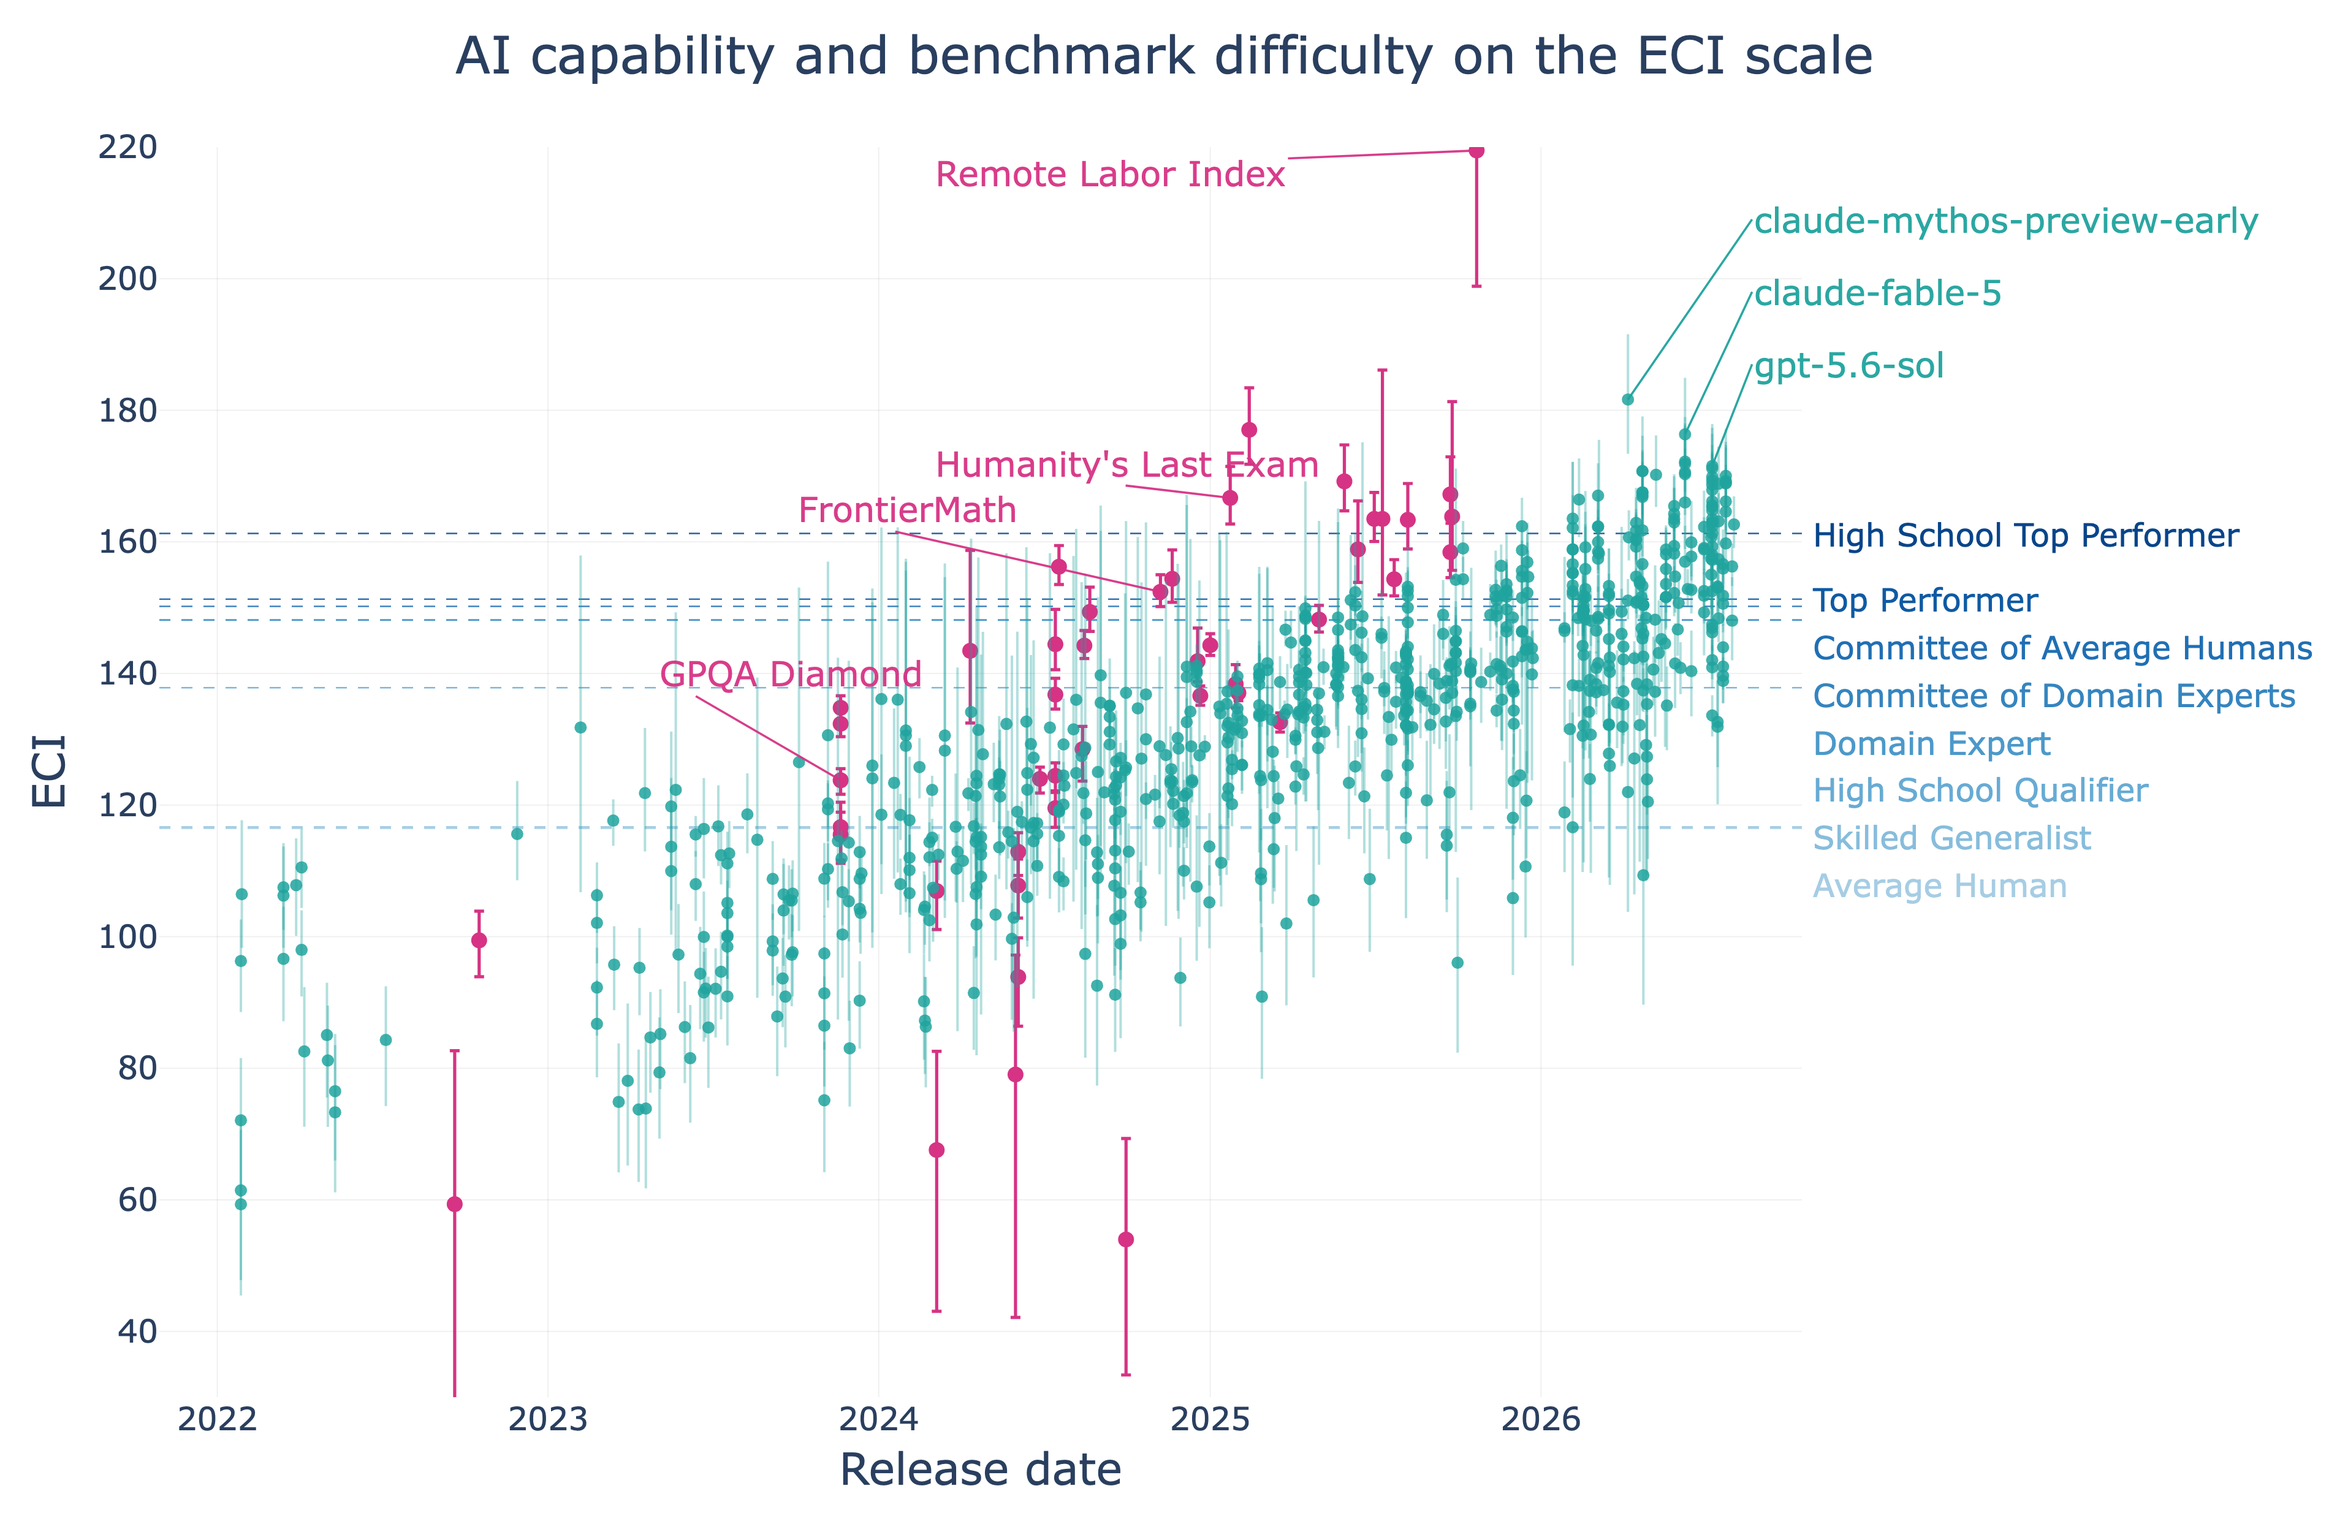
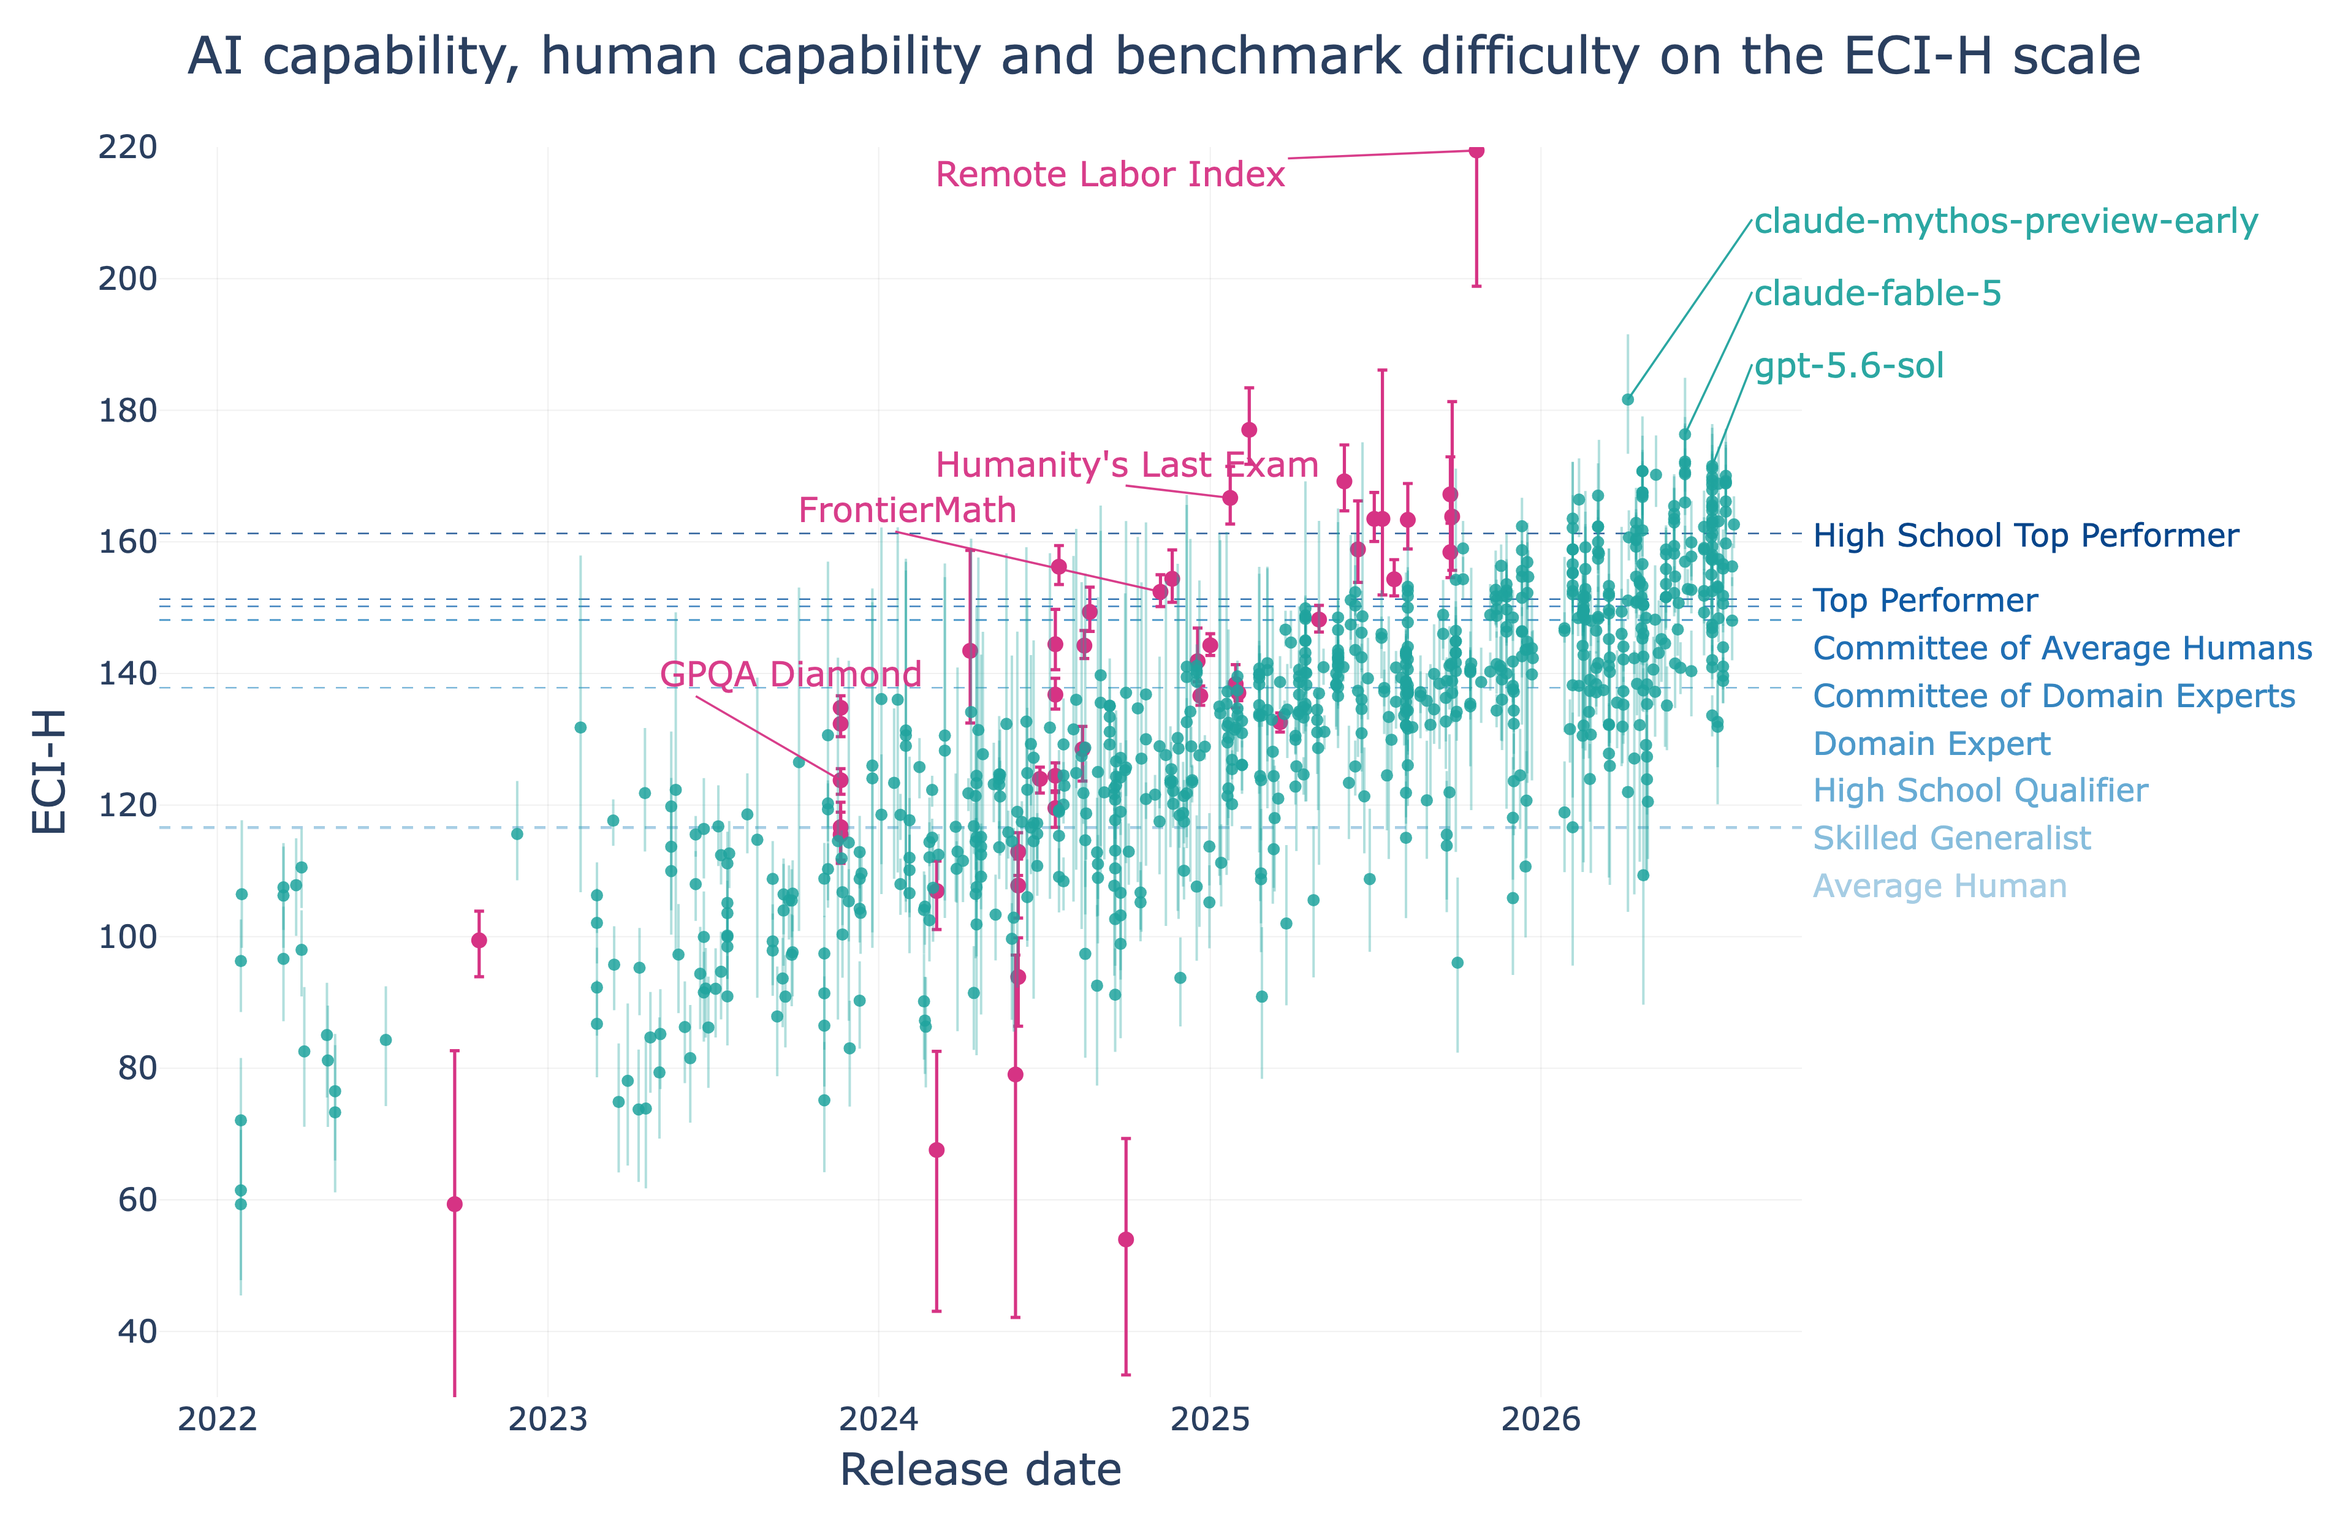
Name the human-anchored index ECI-H, to keep it distinct from Epoch's ECI
Display strings, figure titles/axes and the docs adopt ECI-H (defined once
in the README); code identifiers and CSV columns keep the short ECI names,
and Epoch's own index keeps its name. The 1D timeline title also gains
'human capability'.

Changed region(s): [[0.0932, 0.0, 0.9316, 0.0624], [0.0, 0.468, 0.0311, 0.5616]]

diff --git a/2_fit.py b/2_fit.py
@@ -3,8 +3,8 @@
 Two modes:
 
   python 2_fit.py --preset canonical
-      The headline ECI pipeline: K=1, "pt1" loading prior, curated
-      benchmark exclusions, humans as test-takers. Produces the anchored ECI
+      The headline ECI-H pipeline: K=1, "pt1" loading prior, curated
+      benchmark exclusions, humans as test-takers. Produces the anchored ECI-H
       scale, SOTA table, forests, timeline, PPC/GoF and figures under
       results/canonical/ and plots/canonical/.
 
@@ -244,7 +244,7 @@ def run_canonical(args) -> None:
 
     if args.raw_c:
         config.RAW_C_MODE = True
-        print("── --raw-c mode: ECI = C (no affine anchor rescaling) ───────────")
+        print("── --raw-c mode: ECI-H = C (no affine anchor rescaling) ───────────")
     if args.include_all_benchmarks:
         print("── --include-all-benchmarks: curated exclusions NOT applied ─────")
 
@@ -337,8 +337,8 @@ def run_canonical(args) -> None:
     print(f"   min ess   = {float(np.nanmin(summary[['ess_bulk', 'ess_tail']].values)):.0f}")
     print(f"   divergences = {n_div}")
 
-    # ── SOTA + ECI ──────────────────────────────────────────────────────────
-    print("\n── SOTA + ECI ───────────────────────────────────────────────────")
+    # ── SOTA + ECI-H ──────────────────────────────────────────────────────────
+    print("\n── SOTA + ECI-H ───────────────────────────────────────────────────")
     if args.eci_data_only:
         raw_df = (pd.read_csv(DATA_DIR / "raw" / "eci_data.csv")
                     .rename(columns={"model": "model_version"}))
@@ -390,8 +390,8 @@ def run_canonical(args) -> None:
         (config.ANCHOR_HIGH[1], f"{config.ANCHOR_HIGH[0]} = {config.ANCHOR_HIGH[1]:.0f}"),
     ]
     save_fig(sota_forest_fig(sota, x_col="ECI",
-                             title="SOTA ECI (anchored: Claude 3.5 Sonnet = 130, GPT-5 = 150)",
-                             xaxis_title="ECI (affine-anchored)",
+                             title="SOTA ECI-H (anchored: Claude 3.5 Sonnet = 130, GPT-5 = 150)",
+                             xaxis_title="ECI-H (affine-anchored)",
                              anchors=anchors),
              "sota_eci", plots_dir)
     save_fig(sota_forest_fig(sota, x_col="C",
@@ -695,7 +695,7 @@ def run_exploration(args, parser) -> None:
 def main():
     parser = argparse.ArgumentParser(
         description="Fit the compensatory Beta-MIRT: --preset canonical for the "
-                    "headline ECI pipeline (K=1), or the K-axis exploration flags.")
+                    "headline ECI-H pipeline (K=1), or the K-axis exploration flags.")
     parser.add_argument("--preset", choices=["canonical"],
                         help="'canonical': K=1, pt1 prior, curated exclusions, "
                              "humans in, full ECI deliverables → results/canonical/")

diff --git a/3_diagnostics/1_country_frontier.py b/3_diagnostics/1_country_frontier.py
@@ -236,7 +236,7 @@ def build_figure(theta0, mini, transform, model_dates, country_map, records, for
         xaxis=dict(title="Release date", type="date",
                   range=[pd.to_datetime(model_dates.min()).strftime("%Y-%m-%d"),
                          pd.Timestamp(horizon).strftime("%Y-%m-%d")]),
-        yaxis=dict(title="ECI (anchored)", range=[ylo - pad, yhi + pad]),
+        yaxis=dict(title="ECI-H (anchored)", range=[ylo - pad, yhi + pad]),
         legend=dict(orientation="v", yanchor="top", y=0.99, xanchor="left", x=1.01),
         margin=dict(l=70, r=220, t=70, b=55), height=560, width=1050)
     return fig
@@ -398,7 +398,7 @@ def main():
     fit_label = f"records since {pd.Timestamp(args.fit_start):%b %Y}"
     fig = build_figure(theta0, mini, transform, model_dates, country_map,
                        records, forecasts, args.horizon,
-                       title=f"US vs China frontier (ECI) — {scope_label}",
+                       title=f"US vs China frontier (ECI-H) — {scope_label}",
                        fit_label=fit_label,
                        y_range=(tuple(float(v) for v in args.y_range.split(","))
                                 if args.y_range else None))

diff --git a/blogpost/figures/make_timeline_plotly.py b/blogpost/figures/make_timeline_plotly.py
@@ -168,14 +168,14 @@ def main(results: Path, tag: str, out_dir: Path = HERE) -> None:
     # English text and post-scale type: the figure is shared flat, so it has to
     # be readable without zooming.
     fig.update_layout(
-        title=dict(text="AI capability and benchmark difficulty on the ECI scale",
+        title=dict(text="AI capability, human capability and benchmark difficulty on the ECI-H scale",
                    x=0.5, font=dict(size=FONT_TITLE)),
         xaxis=dict(title=dict(text="Release date", font=dict(size=FONT_AXIS)),
                    tickfont=dict(size=FONT_TICK),
                    dtick="M12", tickformat="%Y", tickangle=0,
                    range=[(x_left - pd.Timedelta(days=90)).strftime("%Y-%m-%d"),
                           (x_right + pd.Timedelta(days=75)).strftime("%Y-%m-%d")]),
-        yaxis=dict(title=dict(text="ECI", font=dict(size=FONT_AXIS)),
+        yaxis=dict(title=dict(text="ECI-H", font=dict(size=FONT_AXIS)),
                    tickfont=dict(size=FONT_TICK), range=[30, 220]),
         legend=dict(font=dict(size=15)),
         height=1250, width=1900, margin=dict(l=130, r=430, t=120, b=110),

diff --git a/blogpost/figures/make_timeline_difficulties.py b/blogpost/figures/make_timeline_difficulties.py
@@ -192,9 +192,9 @@ def main(results: Path, tag: str) -> None:
                                     lw=0.9, alpha=0.6, shrinkA=2, shrinkB=3))
         label_top -= 9
 
-    ax.set_ylabel("ECI")
+    ax.set_ylabel("ECI-H")
     ax.set_xlabel("Release date")
-    ax.set_title("ECI timeline with benchmark difficulties (1D)", fontsize=15)
+    ax.set_title("AI capability, human capability and benchmark difficulty (1D, ECI-H)", fontsize=15)
     ax.xaxis.set_major_locator(mdates.YearLocator())
     ax.xaxis.set_major_formatter(mdates.DateFormatter("%Y"))
     ax.legend(loc="lower right", frameon=False, fontsize=12)

diff --git a/deliverables/us_cn_frontier/make_tables.py b/deliverables/us_cn_frontier/make_tables.py
@@ -95,7 +95,7 @@ def main():
             "Δ open−all", "Δ closed−all"]
     fig = make_subplots(rows=2, cols=1,
                         specs=[[{"type": "table"}], [{"type": "table"}]],
-                        subplot_titles=("Frontier slopes (ECI/yr) — median [95% HDI]",
+                        subplot_titles=("Frontier slopes (ECI-H/yr) — median [95% HDI]",
                                         "Gap and lag — median [95% HDI]"),
                         row_heights=[0.55, 0.45], vertical_spacing=0.16)
     fig.add_trace(go.Table(header=dict(values=cols, **HDR),

diff --git a/multiaxis_eci/analysis/stats.py b/multiaxis_eci/analysis/stats.py
@@ -1,4 +1,5 @@
-"""ECI-scale statistics: capability draws, the affine anchor transform,
+"""ECI-H-scale statistics: capability draws, the affine anchor transform,
+(ECI-H is the human-anchored index; code and CSV columns keep the short ECI_* names.)
 and the SOTA / all-models / timeline / human / forest summary tables."""
 from __future__ import annotations
 

diff --git a/README.md b/README.md
@@ -4,7 +4,7 @@ Code and data behind the forthcoming post *Multi-Axis Bayesian Epoch Capabilitie
 
 The **Epoch Capabilities Index** ([ECI](https://epoch.ai/eci)) compresses many benchmark scores into one number per model, following the [Rosetta Stone paper](https://arxiv.org/abs/2512.00193). The previous post put human baseline tiers on that same scale, which exposed a problem. Humans score near-perfectly on abstract-reasoning benchmarks like ARC-AGI or VPCT and near chance on GPQA-type benchmarks, while many models show the opposite pattern. No single ordering produces both.
 
-This repository rebuilds the index in PyMC as a **K-axis compensatory 2PL Beta-MIRT**, an item-response model with a Beta likelihood. Every ability comes with its uncertainty, and the nine human tiers are fitted *inside* the model as test-takers rather than plotted on top of it. One framework serves both the K=4 capability decomposition and the K=1 anchored index. Four axes come out of the fit, named after the benchmarks whose loadings are most collinear with them:
+This repository rebuilds the index in PyMC as a **K-axis compensatory 2PL Beta-MIRT**, an item-response model with a Beta likelihood. Every ability comes with its uncertainty, and the nine human tiers are fitted *inside* the model as test-takers rather than plotted on top of it. One framework serves both the K=4 capability decomposition and the K=1 anchored index, which we call **ECI-H** (ECI with Human baselines) to keep it distinct from Epoch's published ECI. Four axes come out of the fit, named after the benchmarks whose loadings are most collinear with them:
 1. **Fluid Intelligence** (ARC-AGI-2, ARC-AGI, VPCT)
 2. **Scientific Knowledge and Reasoning** (WMDP Chemistry and Biology, the GPQA subsets, FrontierMath)
 3. **Agentic** (GBAEval, Remote Labor Index, SWE-Bench Pro)
@@ -36,13 +36,13 @@ Main project fit with K=4.
 python 2_fit.py --K 4 --human-merge --lineage-prior --lineage-bm
 ```
 
-The canonical K=1 index, 10,000 draws x 8 chains, writing the full ECI deliverables to `results/canonical/`:
+The canonical K=1 index, 10,000 draws x 8 chains, writing the full ECI-H deliverables to `results/canonical/`:
 
 ```bash
 python 2_fit.py --preset canonical
 ```
 
-ECI is the per-draw affine transform of ability pinned at Claude 3.5 Sonnet (2024-10-22) = 130 and GPT-5 (2025-08-07, medium) = 150, matching Epoch's dashboard. Every other flag, where a fit's output lands, and the plot / diagnose / dashboard commands: [docs/cli.md](docs/cli.md).
+ECI-H is the per-draw affine transform of ability pinned at Claude 3.5 Sonnet (2024-10-22) = 130 and GPT-5 (2025-08-07, medium) = 150, matching the scale of Epoch's dashboard. Every other flag, where a fit's output lands, and the plot / diagnose / dashboard commands: [docs/cli.md](docs/cli.md).
 
 ```
 .

diff --git a/docs/model_math.md b/docs/model_math.md
@@ -132,7 +132,7 @@ Here $\theta_{m}\in\mathbb{R}$ is the model's single overall capability and
 $A_b>0$ is the benchmark's discrimination. This is the standard **2PL** item
 model with a Beta response. (The retired standalone 1D model wrote the same
 mean as $\alpha_b(C_m - D_b)$; that is an affine reparametrization of
-$A_b\theta_m - D_b$, absorbed by the ECI anchoring in Section 6.)
+$A_b\theta_m - D_b$, absorbed by the ECI-H anchoring in Section 6.)
 
 ### 4.2 KD (K-axis compensatory MIRT)
 
@@ -426,14 +426,17 @@ $$
 
 ---
 
-## 6. From ability to the ECI scale
+## 6. From ability to the ECI-H scale
+
+The human-anchored index is written **ECI-H** to keep it distinct from
+Epoch's published ECI; the two share the anchor convention below.
 
 The reported index is an **affine** transform of the overall capability
 (axis 1 of a $K$-axis fit, or $\theta$ of a 1D fit), applied **per posterior
 draw**:
 
 $$
-\mathrm{ECI}_m = a + b\,\theta_{m,1}.
+\mathrm{ECI\text{-}H}_m = a + b\,\theta_{m,1}.
 $$
 
 $a$ and $b$ are fixed by two anchor models:
@@ -447,9 +450,9 @@ $$
 i.e.
 
 $$
-\mathrm{ECI}_{\text{Claude 3.5 Sonnet (2024-10-22)}} = 130,
+\mathrm{ECI\text{-}H}_{\text{Claude 3.5 Sonnet (2024-10-22)}} = 130,
 \qquad
-\mathrm{ECI}_{\text{GPT-5 (2025-08-07, medium)}} = 150.
+\mathrm{ECI\text{-}H}_{\text{GPT-5 (2025-08-07, medium)}} = 150.
 $$
 
 The choice of anchors is arbitrary (it matches the public Epoch dashboard for

diff --git a/docs/cli.md b/docs/cli.md
@@ -67,9 +67,9 @@ unmarked to both.
 
 | flag | effect |
 |---|---|
-| `--preset canonical` | K=1, pt1 loading prior, curated exclusions, humans in, full ECI deliverables to `results/canonical/` |
+| `--preset canonical` | K=1, pt1 loading prior, curated exclusions, humans in, full ECI-H deliverables to `results/canonical/` |
 | `--skip-sampling` | `[canon]` reuse `results/canonical/trace.nc`. Must match the current data shape |
-| `--raw-c` | `[canon]` report raw C instead of anchored ECI |
+| `--raw-c` | `[canon]` report raw C instead of anchored ECI-H |
 | `--skip-baseline` / `--refit-baseline` | `[expl]` skip or force the K=1 baseline fit |
 | `--plots` | `[expl]` render the fit's figures in-process |
 
